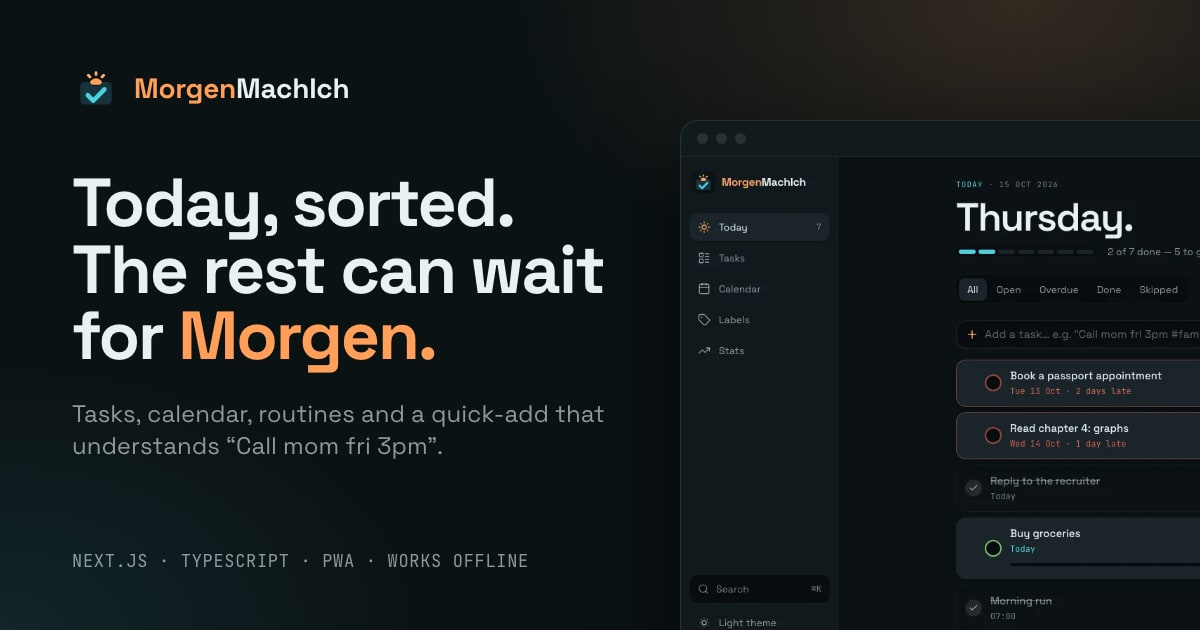
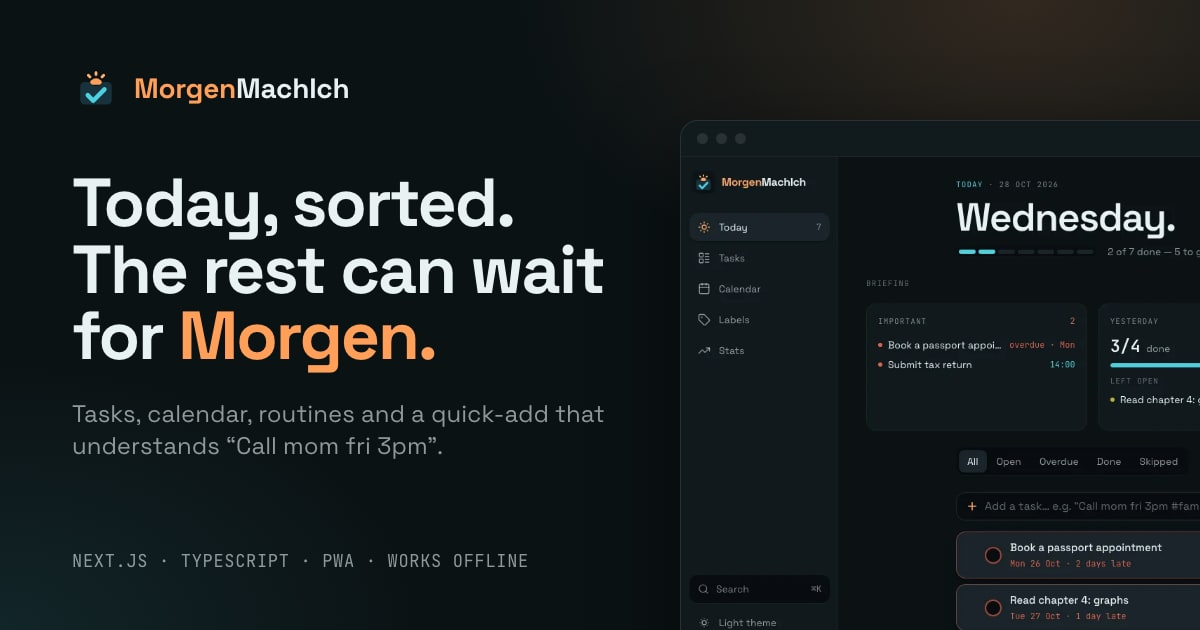
chore(site): update stats and screenshots
Landing-page numbers: 23 epics, 270+ issues, 170+ pull requests, 850+
tests. Screenshots and the Open Graph image regenerated, so /today shows
the new briefing.

diff --git a/features/site/lib/stats.ts b/features/site/lib/stats.ts
@@ -1,12 +1,12 @@
 /**
  * The numbers row of "How it's built" (#375). Update these at every docs
  * sync (see CONVENTIONS): rounded down with a "+", so they stay true
- * between updates. Last updated 2026-10-17 (after #308 and #396).
+ * between updates. Last updated 2026-10-28 (after the Today Dashboard phase 1, #419).
  */
 export const SITE_STATS: { value: string; label: string }[] = [
-  { value: "21", label: "epics" },
-  { value: "250+", label: "issues" },
-  { value: "160+", label: "pull requests" },
-  { value: "780+", label: "tests" },
+  { value: "23", label: "epics" },
+  { value: "270+", label: "issues" },
+  { value: "170+", label: "pull requests" },
+  { value: "850+", label: "tests" },
   { value: "4", label: "time zones in CI" },
 ];
